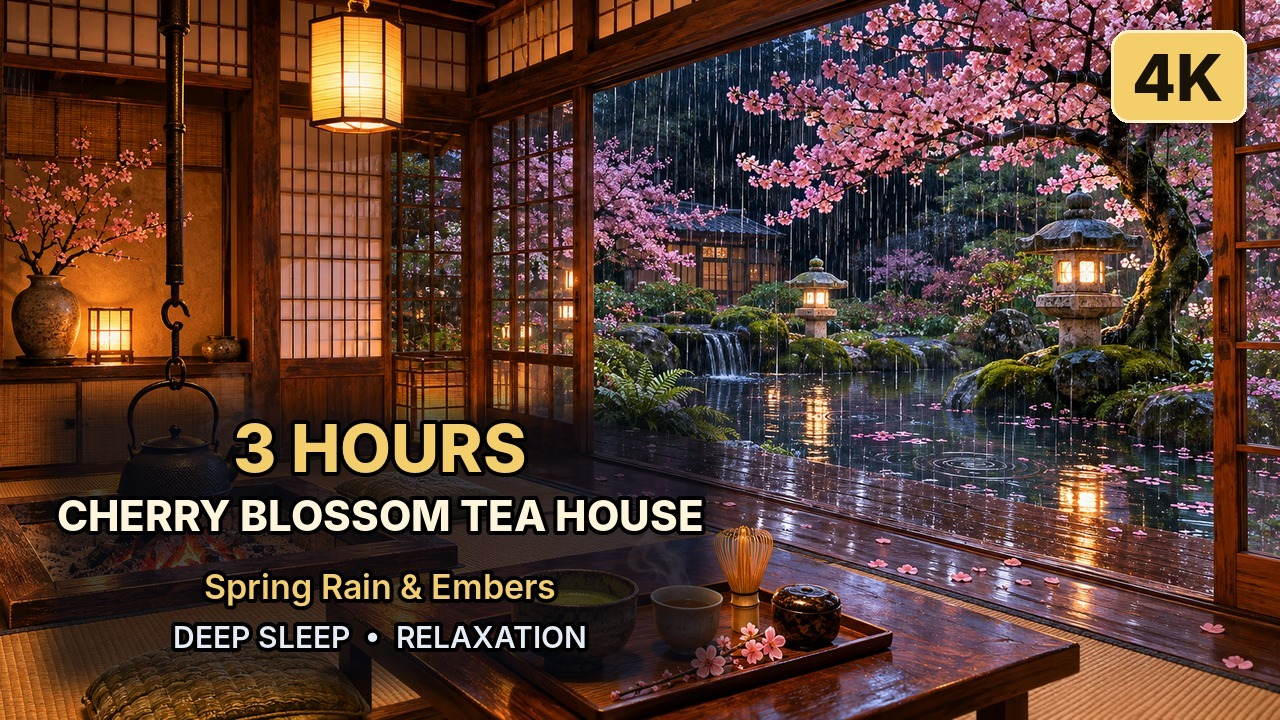
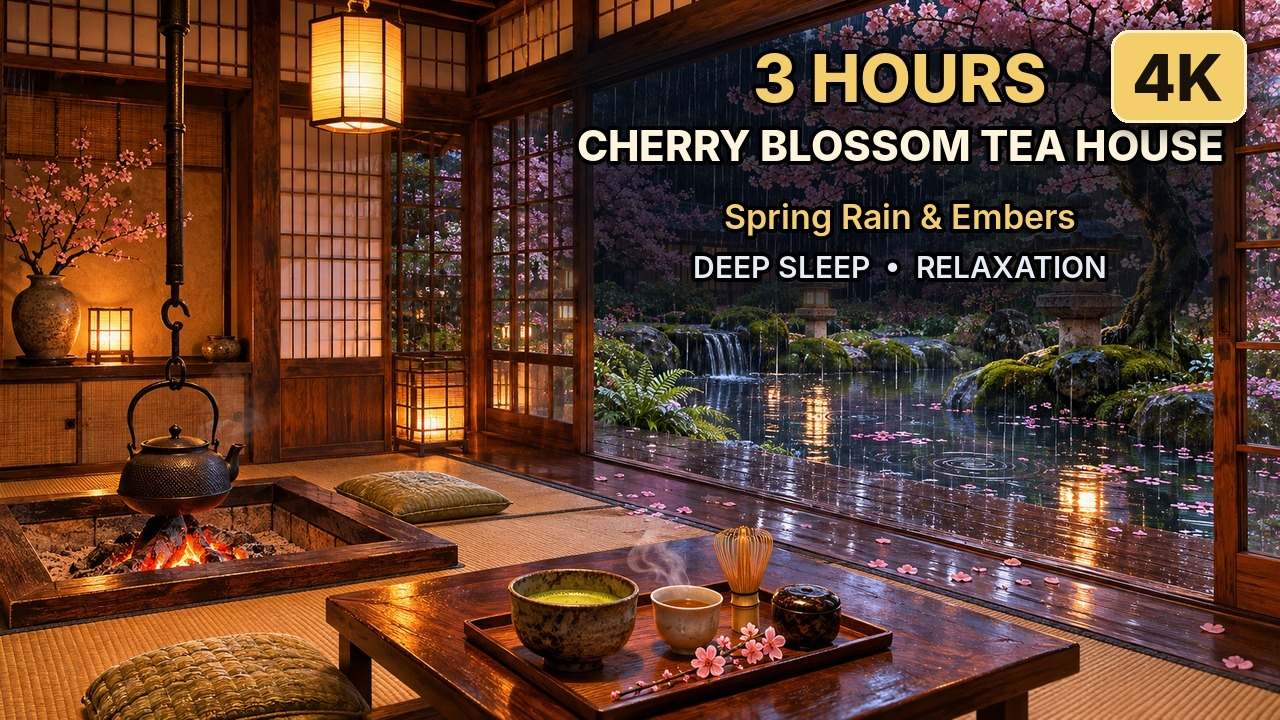
28: ödünç ateş klibi kaldırıldı (kendi közleri), küçük resim yazısı sağ üstte; dersler
Claude-Session: https://claude.ai/code/session_01BaFTGHwpYBEfroc1wrqooK

diff --git a/dream-window/kapak.py b/dream-window/kapak.py
@@ -78,7 +78,7 @@ def secenek_B(kaynak, baslik, alt):
     return im.convert("RGB")
 
 
-def secenek_C(kaynak, baslik, alt, odak_xy, sol_ust=False):
+def secenek_C(kaynak, baslik, alt, odak_xy, sol_ust=False, sag=False):
     ox, oy = odak_xy
     z = 1.18                                                          # hafif yakınlaş (ateş ve pencere kadrajda kalsın)
     w, h = G / z, Y / z
@@ -88,13 +88,14 @@ def secenek_C(kaynak, baslik, alt, odak_xy, sol_ust=False):
     im = im.filter(ImageFilter.UnsharpMask(radius=2, percent=60, threshold=2)).convert("RGBA")
     if sol_ust:                                                       # ateş alt yarıda görünür kalsın: başlık sol üstte
         karart = Image.new("L", im.size, 0)
-        ImageDraw.Draw(karart).ellipse((-500, -420, 900, 380), fill=150)
+        ImageDraw.Draw(karart).ellipse((G - 900, -420, G + 500, 380) if sag else (-500, -420, 900, 380), fill=150)
         im = Image.composite(Image.new("RGBA", im.size, (0, 0, 0, 255)), im, karart.filter(ImageFilter.GaussianBlur(120)))
         ciz = ImageDraw.Draw(im)
         f1 = font_sigdir(ciz, baslik, KALIN, 80, 760)
-        golgeli_yazi(im, (56, 56), baslik, f1, BEYAZ)
+        hz, px = ("ra", G - 56) if sag else ("la", 56)
+        golgeli_yazi(im, (px, 56), baslik, f1, BEYAZ, hiza=hz)
         t = f"3 HOURS  ·  {alt.upper()}"
-        golgeli_yazi(im, (58, 56 + int(f1.size * 1.15)), t, font_sigdir(ciz, t, YARI, 34, 760), ALTIN, golge=6, cizgi=3)
+        golgeli_yazi(im, (px, 56 + int(f1.size * 1.15)), t, font_sigdir(ciz, t, YARI, 34, 760), ALTIN, golge=6, cizgi=3, hiza=hz)
         return im.convert("RGB")
     alt_karart = Image.new("L", im.size, 0)                           # alt bandı koyulaştır
     ImageDraw.Draw(alt_karart).rectangle((0, 470, G, Y), fill=190)
@@ -117,7 +118,7 @@ def main():
         kaynak = Image.open(klasor / ayar.get("gorsel_4k", ayar["gorsel"])).convert("RGB").resize((G, Y), Image.LANCZOS)
         gen = cv2.imread(str(klasor / ayar["gorsel"])).shape[1]
         secenek_B(kaynak, baslik, alt).save(klasor / "kapak_3saat_B.jpg", quality=92)
-        secenek_C(kaynak, baslik, alt, odak(ayar, gen), ayar.get("kapak_yazi") == "sol_ust").save(klasor / "kapak_3saat_C.jpg", quality=92)
+        secenek_C(kaynak, baslik, alt, odak(ayar, gen), ayar.get("kapak_yazi") in ("sol_ust", "sag_ust"), ayar.get("kapak_yazi") == "sag_ust").save(klasor / "kapak_3saat_C.jpg", quality=92)
         print(f"{ad}: B ve C hazır ({baslik} / {alt})")
 
 

diff --git a/dream-window/yeni_sahne.py b/dream-window/yeni_sahne.py
@@ -177,6 +177,8 @@ def kapak(klasor, satirlar, cikti):
     kutu = (40, 400, 720, 690) if sol <= sag else (560, 400, 1240, 690)
     if json.loads((klasor / "sahne.json").read_text(encoding="utf-8")).get("kapak_yazi") == "sol_ust":   # ateş sağ altta: yazı ateşi örtmesin
         kutu = (40, 30, 720, 320)
+    if json.loads((klasor / "sahne.json").read_text(encoding="utf-8")).get("kapak_yazi") == "sag_ust":   # ateş sol altta
+        kutu = (560, 30, 1240, 320)
     cx = (kutu[0] + kutu[2]) // 2
     kat = Image.new("RGBA", im.size, (0, 0, 0, 0))
     ImageDraw.Draw(kat).rounded_rectangle(kutu, radius=18, fill=(6, 10, 18, 190))

diff --git a/.claude/skills/dream-window-yeni-sahne/references/dersler.md b/.claude/skills/dream-window-yeni-sahne/references/dersler.md
@@ -104,3 +104,5 @@ Biçim: tarih ve sahne · ne oldu · bundan sonraki kural · sorumlu.
 - **Bir sahnenin iki Shorts'u aynı yolu ters yönde gezmemeli (25 ağaç ev).** shorts 1380→700, shorts2 700→1380 ayarlanmıştı; iki Shorts aynı karelerden oluşuyordu, yalnızca yön farklıydı. Bu "yeniden kullanılmış içerik" izlenimi verir. **Kural:** shorts2 farklı bir yakınlıkla (`yakin` 1.4–1.5) ve farklı bir yolla gezer; iki Shorts'un `bas`/`son` değerlerini yan yana yazıp karşılaştır.
   - **Patron açıklaması (26 dağ tapınağı):** Tek öğeli yazı ("the tea is still warm") iki uçta da görünmeli. İki öğeli alt yazıda ("Snowfall & Crackling Fire") ve yol pencereden ocağa uzanıyorsa öğelerden biri açılış karesinde, öteki dönüş karesinde (24. sn) görünebilir; izleyici ikisini de aynı Shorts'ta görür. Açıklamadaki öğeler de Shorts boyunca bir uçta görünmeli. Kadraj genişliği iki öğeyi tek karede almaya yetmiyorsa bu kabul edilir; açılış karesinde yazıdaki öğelerden hiçbiri yoksa kabul edilmez.
 - **Ödünç ateş klibinin zemini (tuğla, cam) yeni ocağa taşıyordu (26 dağ tapınağı RET'i).** 03'ün şömine klibi irori'ye kondu; alevin çevresinde tuğla duvarlı dikdörtgen bir levha seçiliyordu. 720p'de zor fark ediliyordu, Shorts yakın planında ve 4K'da açıkça görünüyordu. **Kural:** Ödünç klip kullanılan her sahnede, üretimden önce ateş bölgesini 3× büyütülmüş tek kare olarak çıkar ve bak (`dream-window/araclar_test_ates.py <sahne> <etiket> <x> <y>`). Zemin taşıyorsa `sahne.json` > `ates_klip.parlak_esik: [alt, üst]` aç (26'da [0.5, 0.8]); maske yalnızca parlak alevi geçirir. Sığ ocakta eşik alevi de silebilir; 28'de [0.38, 0.62] gerekti.
+- **Sığ ocakta ödünç klip yama bırakabilir (28 çay evi RET'i).** `parlak_esik` 28'in sığ irori'sinde tuğlayı sildi, ama Shorts yakın planında düz kenarlı, leylak renkli, yarı saydam bir yama bıraktı. Yama klibin kendisinden geliyordu. **Kural:** Kor ağırlıklı, alçak ocaklarda (irori, mangal) ödünç klip kullanma; sahnenin kendi közlerini klipsiz ateş yoluyla canlandır. Ödünç klip yalnızca görselde gerçek bir alev bölgesi olan şömine ve sobalarda kullanılır. Kontrolü Shorts dönüş kadrajı ölçeğinde de yap.
+- **Küçük resim yazısı ateşi örtmemeli (26, 28).** Alt yazı "Fire" ya da "Embers" diyorsa ateş küçük resimde görünür kalmalı. Ateş kutusu yazı bloğunun altına düşüyorsa `sahne.json` > `kapak_yazi` (`sol_ust` / `sag_ust`) ile yazıyı taşı.
